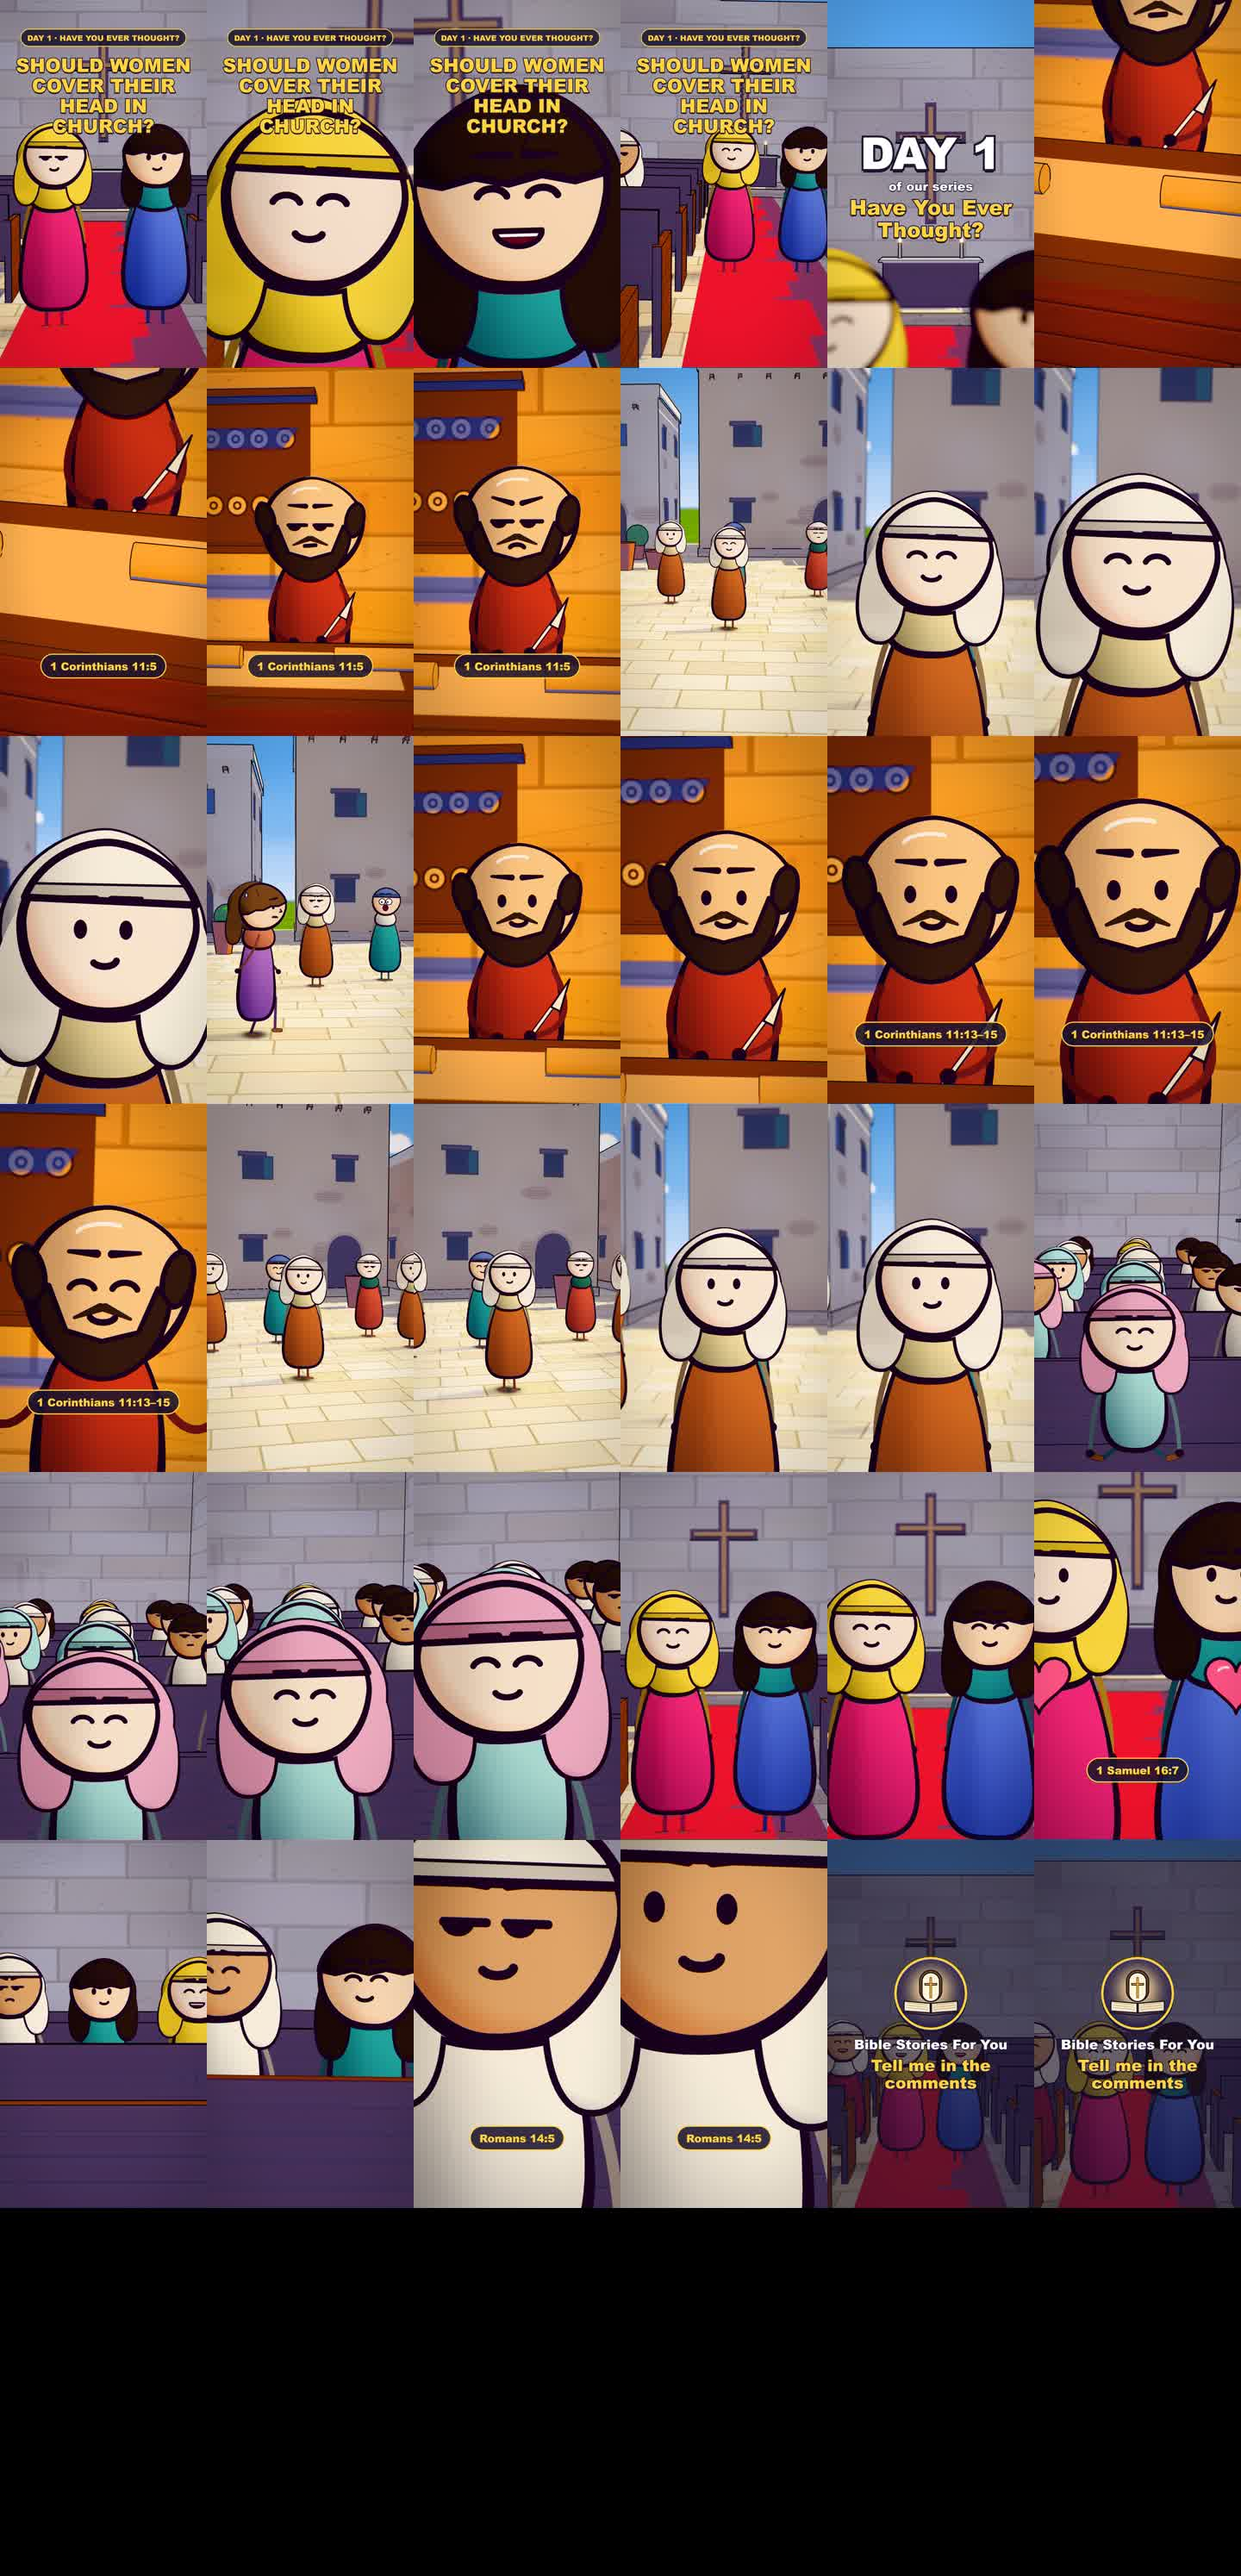
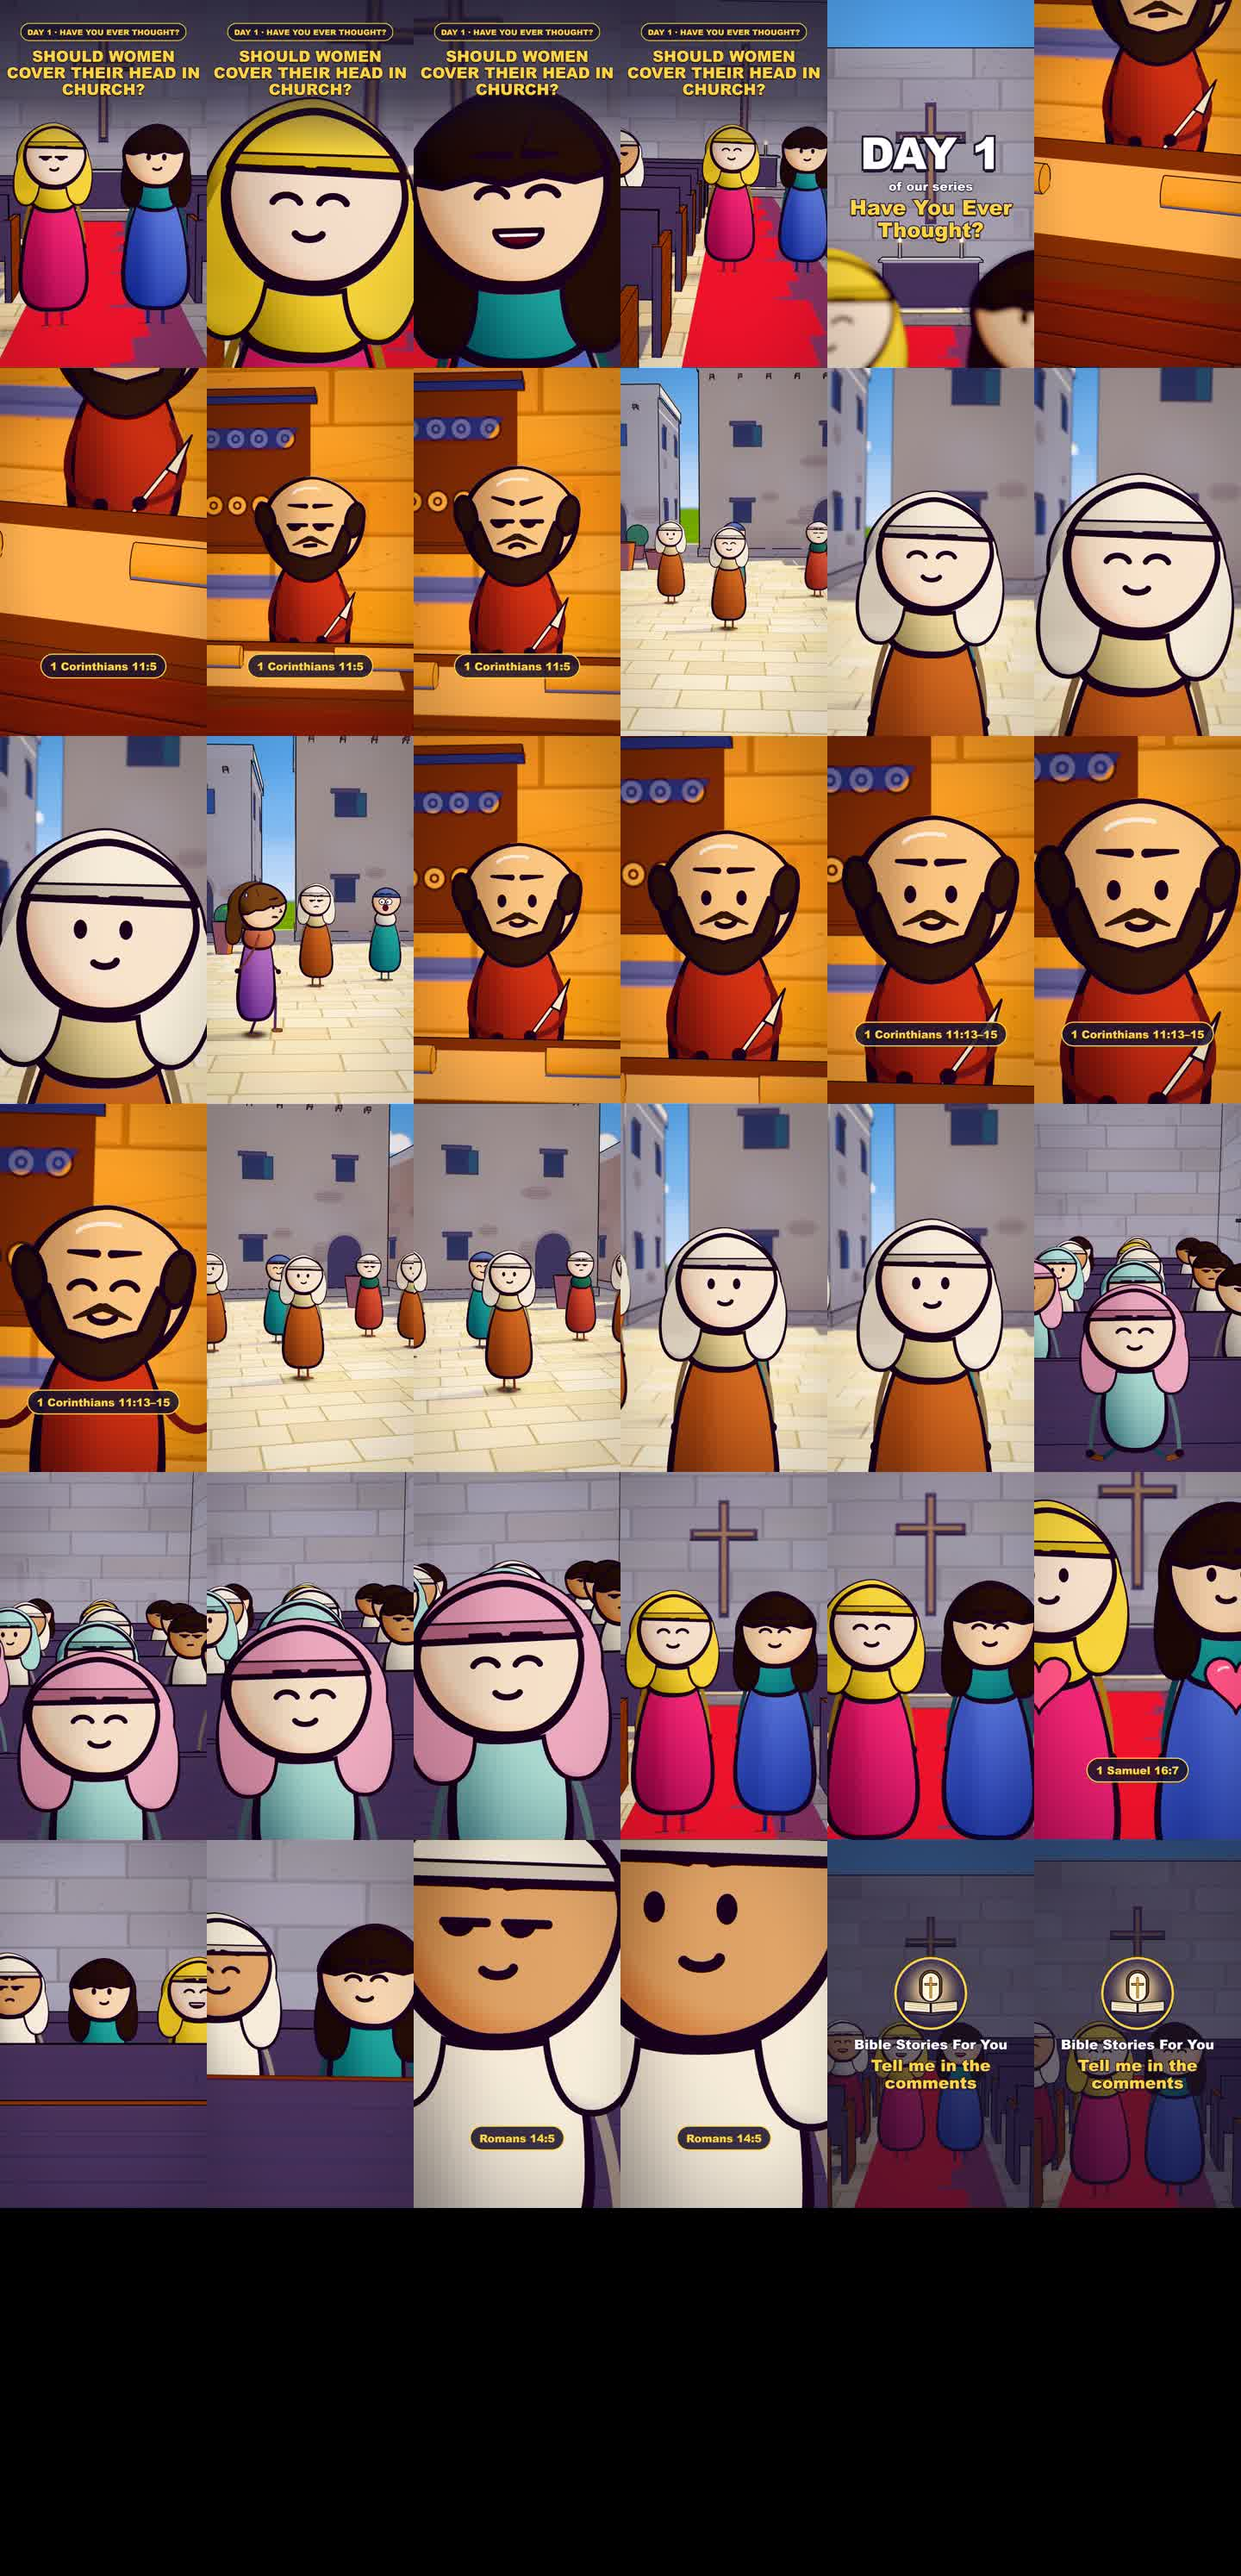
Job 010 done: head-covering EN hook text fixed, remuxed, hook frame checked

Changed region(s): [[0.0, 0.0, 0.6875, 0.0622]]

diff --git a/reports/STATUS.md b/reports/STATUS.md
@@ -58,4 +58,7 @@ WORKER READY os=Windows 11 Home 10.0.26300 gpu=NVIDIA GeForce RTX 4060 Laptop GP
   Copies: FINAL VIDEOS\Head Covering - Day 1 - ENGLISH.mp4 / - HINDI.mp4.
   QA from both sheets (36 frames each): no black frames, no floating characters, text overlays legible, Hindi text renders correctly, end card shows "Bible Stories For You". Note: in the first three tiles (~t=0-4 s) the title text overlaps the top of the characters' heads ("HEAD IN CHURCH?" over the yellow-haired head, "CHURCH?" over the black hair); may be intended.
   Google Drive upload NOT done (about 160 MB per file, too large for the Drive connector); the user drags both files into "Bible Reels - FINAL" by hand.
+- DONE 010 head-covering ENGLISH only (hook text fix): duration=71.50s res=1440x2560, render_min=11.39 (683.5 s). The first attempt crashed at frame ~1026/2145 with "Chrome ran out of memory" (concurrency 8, other apps open, probably GPU memory); the one retry used --concurrency=4 after the user's other apps were closed, and passed.
+  Volume (new AAC mux): EN mean -17.7 dB / max -1.2. Hook frame at 2 s: reports/head-covering_EN_hook.jpg. The title is now 3 lines above the women's faces on a dark band, no overlap with heads. Contact sheet refreshed: reports/head-covering_sheet.jpg.
+  Replaced FINAL VIDEOS\Head Covering - Day 1 - ENGLISH.mp4. Hindi is unchanged.
 - Jobs 001-008 are done. FINAL VIDEOS\ holds the current EN + HI versions of all three reels. Waiting for new jobs.

diff --git a/jobs/done.md b/jobs/done.md
@@ -8,3 +8,4 @@
 007
 008
 009
+010
